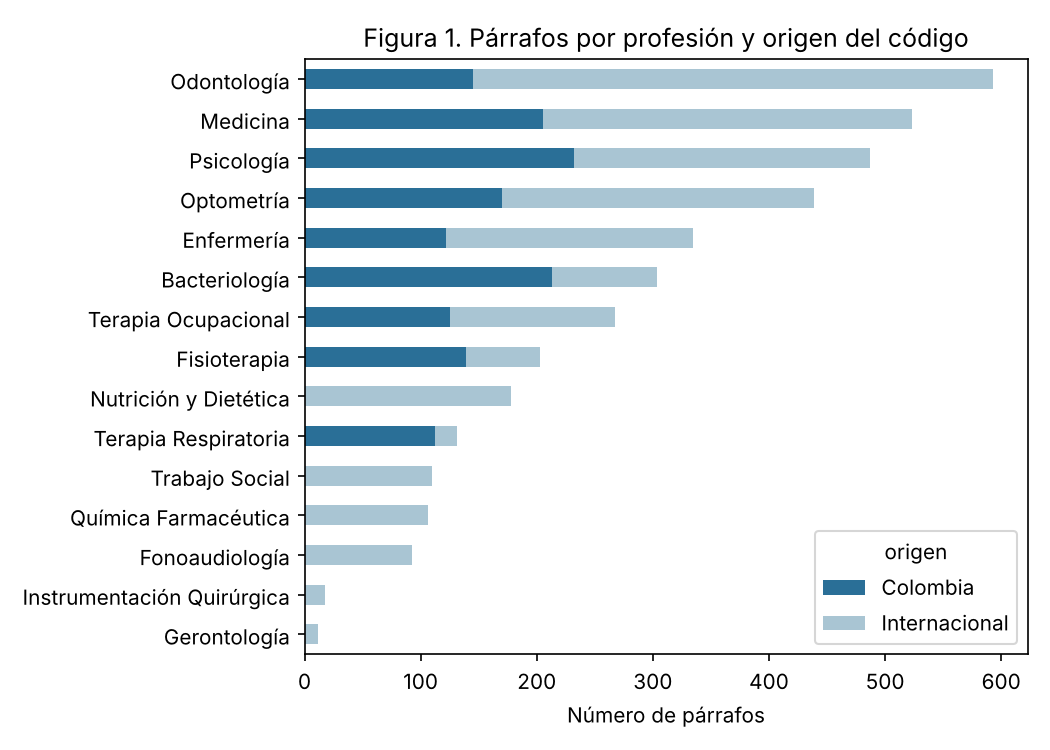
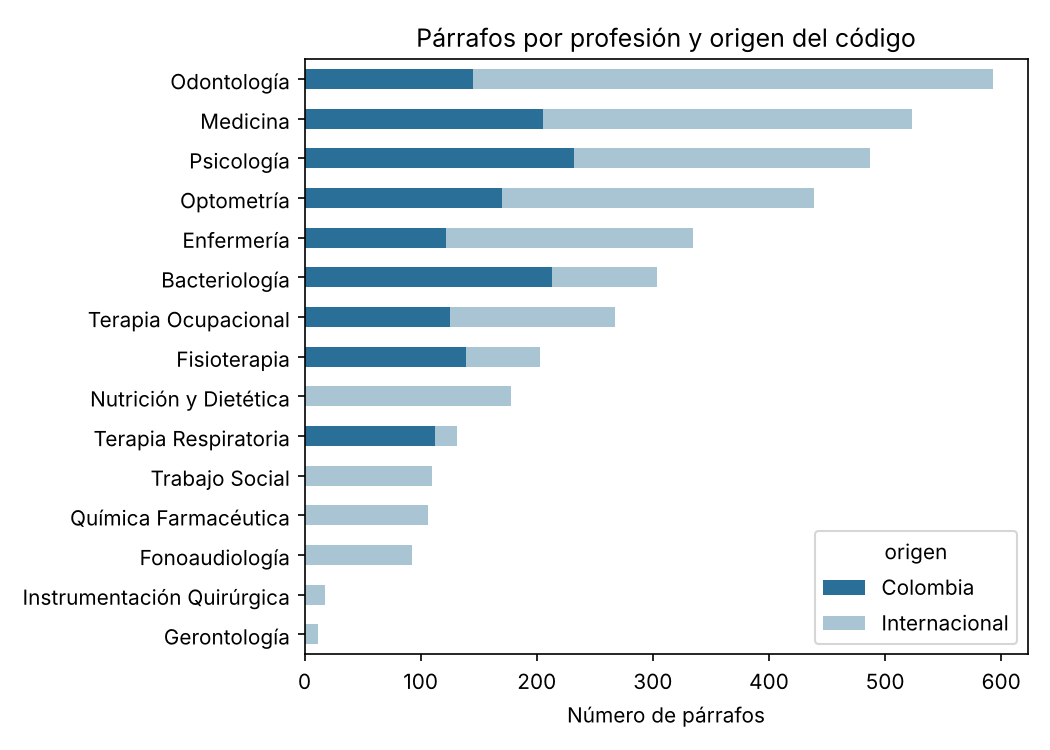
Figuras sin numeración interna y ejes en español
Claude-Session: https://claude.ai/code/session_01VGyULyaqJP2UNK4gaMvtmS

Changed region(s): [[0.3352, 0.0307, 0.9143, 0.0613]]

diff --git a/src/experimentos.py b/src/experimentos.py
@@ -76,7 +76,8 @@ def main():
             fig, ax = plt.subplots(figsize=(8, 7))
             ConfusionMatrixDisplay.from_predictions(co.profesion, preds[mejor], ax=ax, xticks_rotation=60,
                                                     normalize="true", values_format=".2f", colorbar=False)
-            ax.set_title(f"Figura 3. Matriz de confusión normalizada, E1m ({mejor})")
+            ax.set_xlabel("Predicción"); ax.set_ylabel("Profesión real")
+            ax.set_title(f"Matriz de confusión normalizada, E1m ({mejor})")
             plt.tight_layout(); plt.savefig("figures/fig3_confusion_e1m.png", dpi=150); plt.close()
 
     # E3: 9 profesiones, todos los documentos
@@ -112,7 +113,7 @@ def main():
     ax.axhline(1 / 9, ls="--", c="grey", lw=1, label="Azar (1/9)")
     ax.set_ylabel("F1-macro"); ax.set_xlabel("")
     ax.set_xticklabels(["E1: leyes CO\n(CV agrupada)", "E3: todos los docs\n(CV agrupada)", "E2: CO → internacional"])
-    ax.set_title("Figura 4. F1-macro de SVM lineal por experimento"); ax.legend()
+    ax.set_title("F1-macro de SVM lineal por experimento"); ax.legend()
     plt.tight_layout(); plt.savefig("figures/fig4_f1_experimentos.png", dpi=150); plt.close()
     print(res.to_string(index=False))
 

diff --git a/src/eda.py b/src/eda.py
@@ -43,7 +43,7 @@ def main():
     tab.to_csv("results/eda_por_profesion.csv")
     ax = tab[["Colombia", "Internacional"]].plot.barh(stacked=True, figsize=(7, 5), color=["#2a6f97", "#a9c5d3"])
     ax.set_xlabel("Número de párrafos"); ax.set_ylabel("")
-    ax.set_title("Figura 1. Párrafos por profesión y origen del código")
+    ax.set_title("Párrafos por profesión y origen del código")
     plt.tight_layout(); plt.savefig("figures/fig1_parrafos_por_profesion.png", dpi=150); plt.close()
 
     # 2. Distribución de longitudes
@@ -51,7 +51,7 @@ def main():
     for origen, sub in df.groupby("origen"):
         ax.hist(sub["n_palabras"].clip(upper=200), bins=40, alpha=0.6, label=origen)
     ax.set_xlabel("Palabras por párrafo (recortado a 200)"); ax.set_ylabel("Frecuencia"); ax.legend()
-    ax.set_title("Figura 2. Longitud de los párrafos")
+    ax.set_title("Longitud de los párrafos")
     plt.tight_layout(); plt.savefig("figures/fig2_longitud_parrafos.png", dpi=150); plt.close()
 
     # 3. Vocabulario: términos más frecuentes y peso de los nombres de profesión

diff --git a/src/figuras_informe.py b/src/figuras_informe.py
@@ -20,7 +20,7 @@ for salida, rutas in PANELES.items():
     fig, axes = plt.subplots(1, 2, figsize=(12, 12 / sum(ratios)), gridspec_kw={"width_ratios": ratios})
     for ax, im, letra in zip(axes, imgs, "ab"):
         ax.imshow(im); ax.axis("off")
-        ax.text(0, 0, f"({letra})", fontsize=12, fontweight="bold", va="bottom")
-    plt.subplots_adjust(left=0, right=1, top=0.97, bottom=0, wspace=0.02)
+        ax.text(0, 0, f"({letra})", fontsize=12, fontweight="bold", va="bottom", clip_on=False)
+    plt.subplots_adjust(left=0, right=1, top=0.94, bottom=0, wspace=0.02)
     plt.savefig(salida, dpi=200); plt.close()
     print("->", salida)
